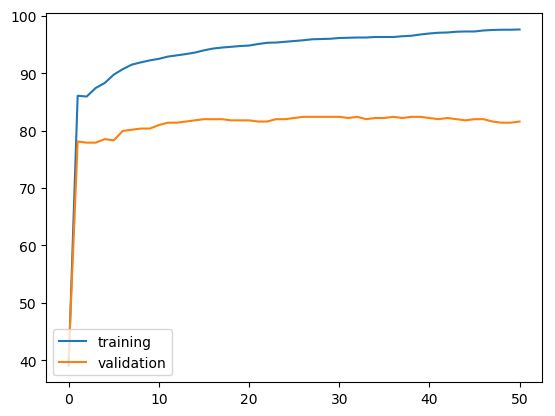
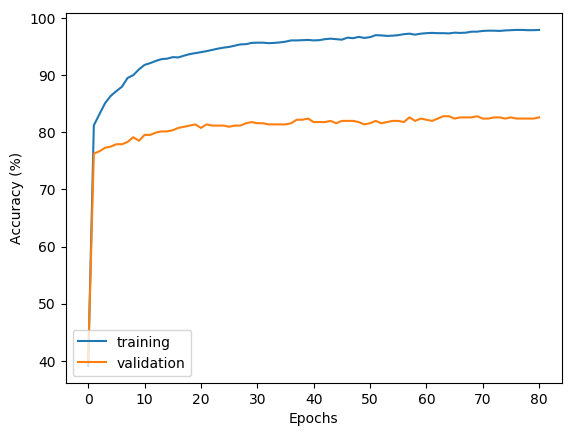
part 3 fixed

Changed region(s): [[0.0, 0.0312, 0.9802, 0.9688]]

diff --git a/p3/bayes.py b/p3/bayes.py
@@ -49,9 +49,9 @@ def getTop10(array, top):
     vocab = loadObj('vocab')
     vocab = list(vocab.keys())
 
-    index = np.argpartition(array, -top)[-top:]
-    index = index[np.argsort(array[index])]
-    top10 = [vocab[i] for i in index] 
+    index = np.argsort(array)
+    topWords = [vocab[i] for i in index]
+    top10 = topWords[::-1][:top]
 
     print(top10)
     return top10
@@ -61,8 +61,8 @@ def getTop10_noStop(array, top):
     vocab = list(vocab.keys())
 
     index = np.argsort(array)
-    topWords = [vocab[i] for i in (index) if vocab[i] not in ENGLISH_STOP_WORDS]
-    top10 = topWords[-top:]
+    topWords = [vocab[i] for i in index if vocab[i] not in ENGLISH_STOP_WORDS]
+    top10 = topWords[::-1][:top]
 
     print(top10)
     return top10

diff --git a/p3/fake.py b/p3/fake.py
@@ -81,7 +81,7 @@ def part4():
     model = train(
         model=LogisticRegression(len(vocab)),
         loss_fn=nn.BCELoss(size_average=True),
-        num_epochs=50,
+        num_epochs=80,
         batch_size=24,
         learn_rate=1e-3,
         reg_rate=1e-4)
@@ -168,12 +168,12 @@ def part7():
 if __name__ == '__main__':
     start = time.time()
 
-    part1()
-    part2()
-    part3()
-    part4()
+    #part1()
+    #part2()
+    #part3()
+    #part4()
     part6()
-    part7()
+    #part7()
 
     end = time.time()
     print('Time elapsed: %.2fs' % (end-start))

diff --git a/p3/logistic.py b/p3/logistic.py
@@ -93,12 +93,16 @@ def test(model, set, th=0.5, batch_size=24):
 
         total += len(target)
         correct += np.sum(pred == target)
+    
+    model.train()
 
     return 100 * correct/total
 
 def linegraph(y1, y2, x, filename):
     plt.plot(x, y1, label='training')
     plt.plot(x, y2, label='validation')
+    plt.xlabel('Epochs')
+    plt.ylabel('Accuracy (%)')
     plt.legend(loc='lower left')
     plt.savefig('plots/'+filename+'.png', bbox_inches='tight')
     plt.show()
